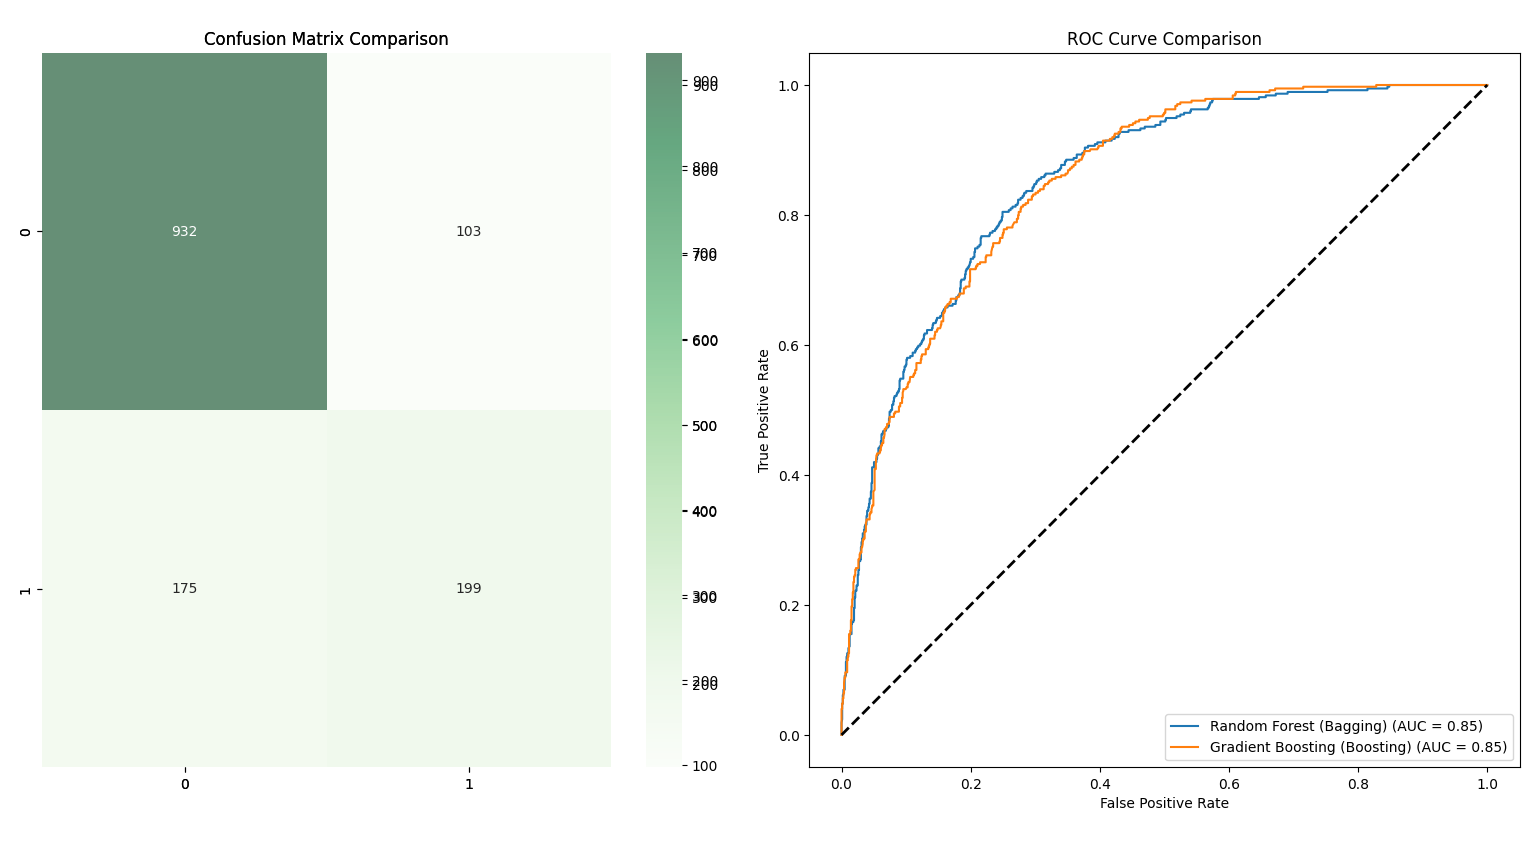
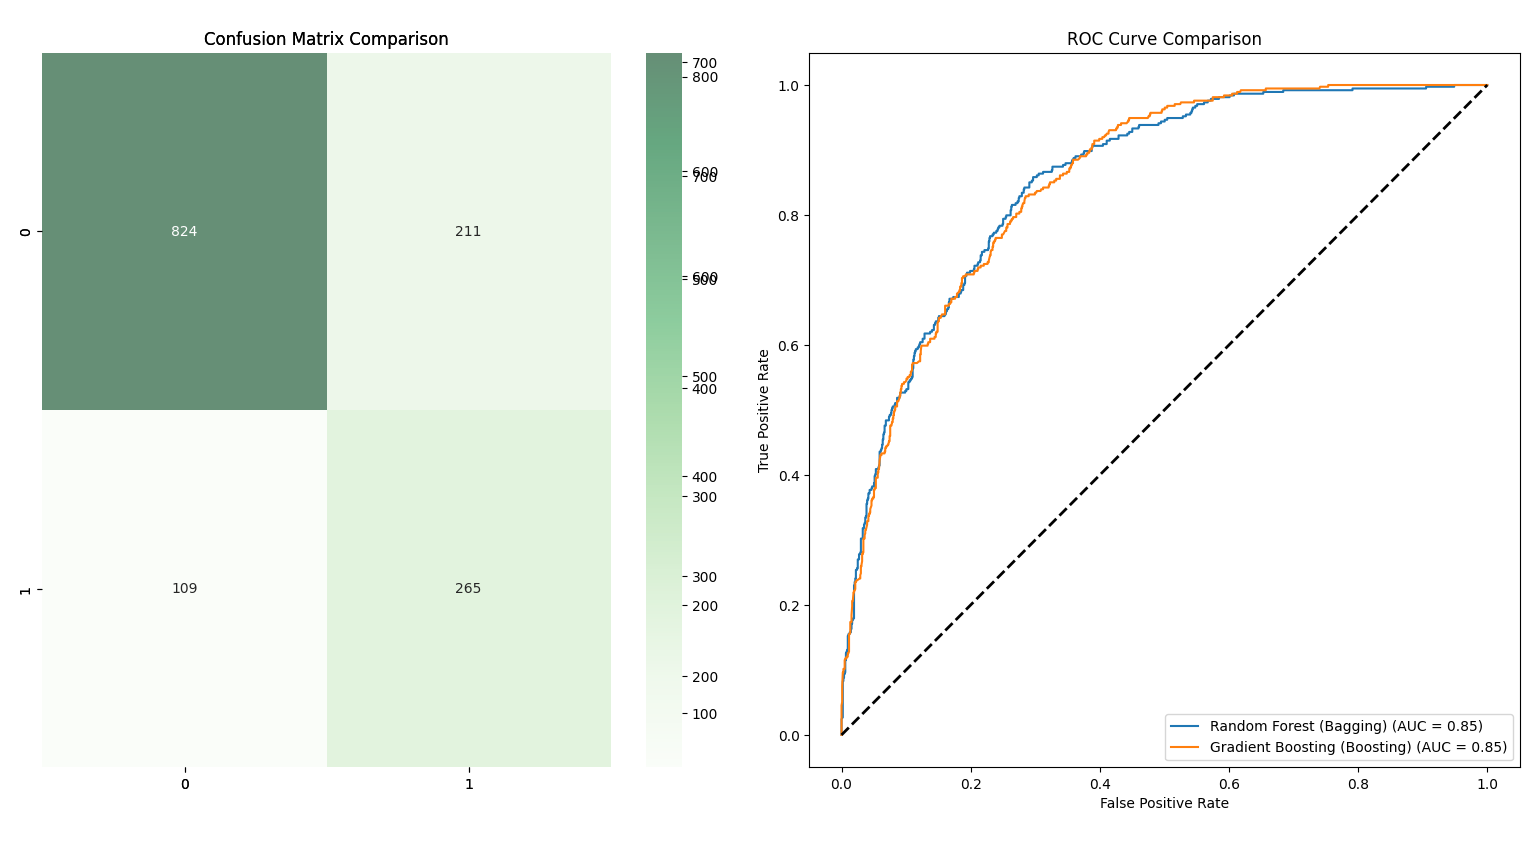
fine-tuning

diff --git a/project/src/project.py b/project/src/project.py
@@ -146,7 +146,7 @@ plt.xlabel('Monthly Charges')
 
 plt.subplot(1, 2, 2)
 # پیدا کردن ایندکس ستون Monthly Charges در آرایه نامپای
-mc_idx = list(X.columns).index('Monthly Charges')
+mc_idx = list(feature_names).index('Monthly Charges')
 sns.histplot(X_train[:, mc_idx], kde=True, color='green')
 plt.title('After StandardScaler (Mean=0, Std=1)')
 plt.xlabel('Monthly Charges (Scaled)')
@@ -194,7 +194,7 @@ print("\n--- Step 4 & 5: Model Selection (Bagging vs Boosting) & Hyperparameter 
 
 # تعریف مدلها
 models = {
-    'Random Forest (Bagging)': RandomForestClassifier(random_state=SEED),
+    'Random Forest (Bagging)': RandomForestClassifier(random_state=SEED, class_weight='balanced'),
     'Gradient Boosting (Boosting)': GradientBoostingClassifier(random_state=SEED)
 }
 
@@ -226,7 +226,7 @@ for name, model in models.items():
         estimator=model,
         param_grid=param_grids[name],
         cv=cv,
-        scoring='f1', # تمرکز بر F1 Score به دلیل نامتوازن بودن دیتا
+        scoring='roc_auc', # 'f1', # تمرکز بر F1 Score به دلیل نامتوازن بودن دیتا
         n_jobs=-1,
         verbose=1
     )
@@ -249,9 +249,14 @@ plt.figure(figsize=(14, 6))
 # حلقه برای ارزیابی هر دو مدل بهینه شده
 for i, (name, model) in enumerate(best_estimators.items()):
     
-    # پیشبینی روی داده تست (دادههایی که مدل هرگز ندیده است)
-    y_pred = model.predict(X_test)
+    # # پیشبینی روی داده تست (دادههایی که مدل هرگز ندیده است)
+    # y_pred = model.predict(X_test)
+    # y_prob = model.predict_proba(X_test)[:, 1]
+    
+    # اصلاح استراتژی ۴: محاسبه احتمالات و اعمال دستی آستانه 0.35
     y_prob = model.predict_proba(X_test)[:, 1]
+    y_pred = (y_prob >= 0.35).astype(int)
+
     
     # گزارش متنی دقیق
     print(f"\n{'='*20} {name} Evaluation {'='*20}")

diff --git a/project/docs/terminal_output_project.md b/project/docs/terminal_output_project.md
@@ -42,45 +42,46 @@ Original Features: 30
 Features after PCA (95% Variance): 17
 
 Running quick comparison: PCA vs. No-PCA (using Random Forest)...
-Method          | Training Time (s)  | Accuracy  
+Method          | Training Time (s)  | Accuracy
 --------------------------------------------------
-Original        | 0.1230             | 0.7956
-With PCA        | 0.1096             | 0.7963
+Original        | 0.1337             | 0.7956
+With PCA        | 0.1198             | 0.7963
 
 --- Step 4 & 5: Model Selection (Bagging vs Boosting) & Hyperparameter Tuning ---
 
 Training Random Forest (Bagging) with GridSearchCV...
 Fitting 5 folds for each of 12 candidates, totalling 60 fits
-Best Params for Random Forest (Bagging): {'max_depth': 10, 'min_samples_split': 5, 'n_estimators': 50}
-Best CV F1-Score: 0.6032
+Best Params for Random Forest (Bagging): {'max_depth': 10, 'min_samples_split': 2, 'n_estimators': 100}
+Best CV F1-Score: 0.8588
 
 Training Gradient Boosting (Boosting) with GridSearchCV...
 Fitting 5 folds for each of 8 candidates, totalling 40 fits
-Best Params for Gradient Boosting (Boosting): {'learning_rate': 0.1, 'max_depth': 3, 'n_estimators': 100}
-Best CV F1-Score: 0.5999
+Best Params for Gradient Boosting (Boosting): {'learning_rate': 0.1, 'max_depth': 3, 'n_estimators': 50}
+Best CV F1-Score: 0.8632
 
 --- Step 6 & 7: Final Evaluation, Reproducibility & Visualization ---
 
 ==================== Random Forest (Bagging) Evaluation ====================
               precision    recall  f1-score   support
 
-           0       0.85      0.91      0.88      1035
-           1       0.68      0.55      0.61       374
+           0       0.93      0.69      0.79      1035
+           1       0.50      0.87      0.63       374
 
-    accuracy                           0.81      1409
-   macro avg       0.76      0.73      0.74      1409
-weighted avg       0.80      0.81      0.80      1409
+    accuracy                           0.73      1409
+   macro avg       0.72      0.78      0.71      1409
+weighted avg       0.82      0.73      0.75      1409
 
 
 ==================== Gradient Boosting (Boosting) Evaluation ====================
               precision    recall  f1-score   support
 
-           0       0.84      0.90      0.87      1035
-           1       0.66      0.53      0.59       374
+           0       0.88      0.80      0.84      1035
+           1       0.56      0.71      0.62       374
 
-    accuracy                           0.80      1409
-   macro avg       0.75      0.72      0.73      1409
-weighted avg       0.79      0.80      0.80      1409
+    accuracy                           0.77      1409
+   macro avg       0.72      0.75      0.73      1409
+weighted avg       0.80      0.77      0.78      1409
+
 
 Generating Learning Curves for Gradient Boosting (Best Model Analysis)...
 ```
